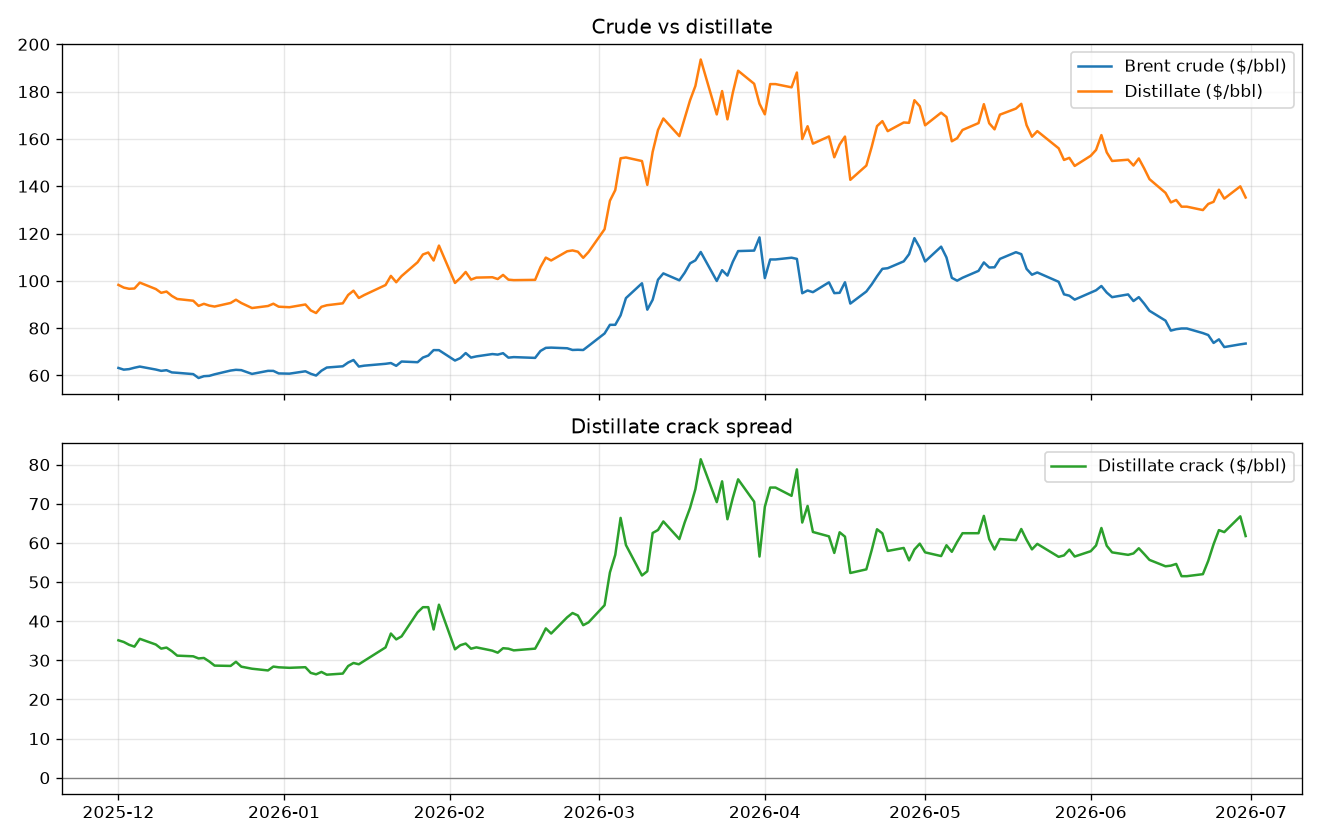
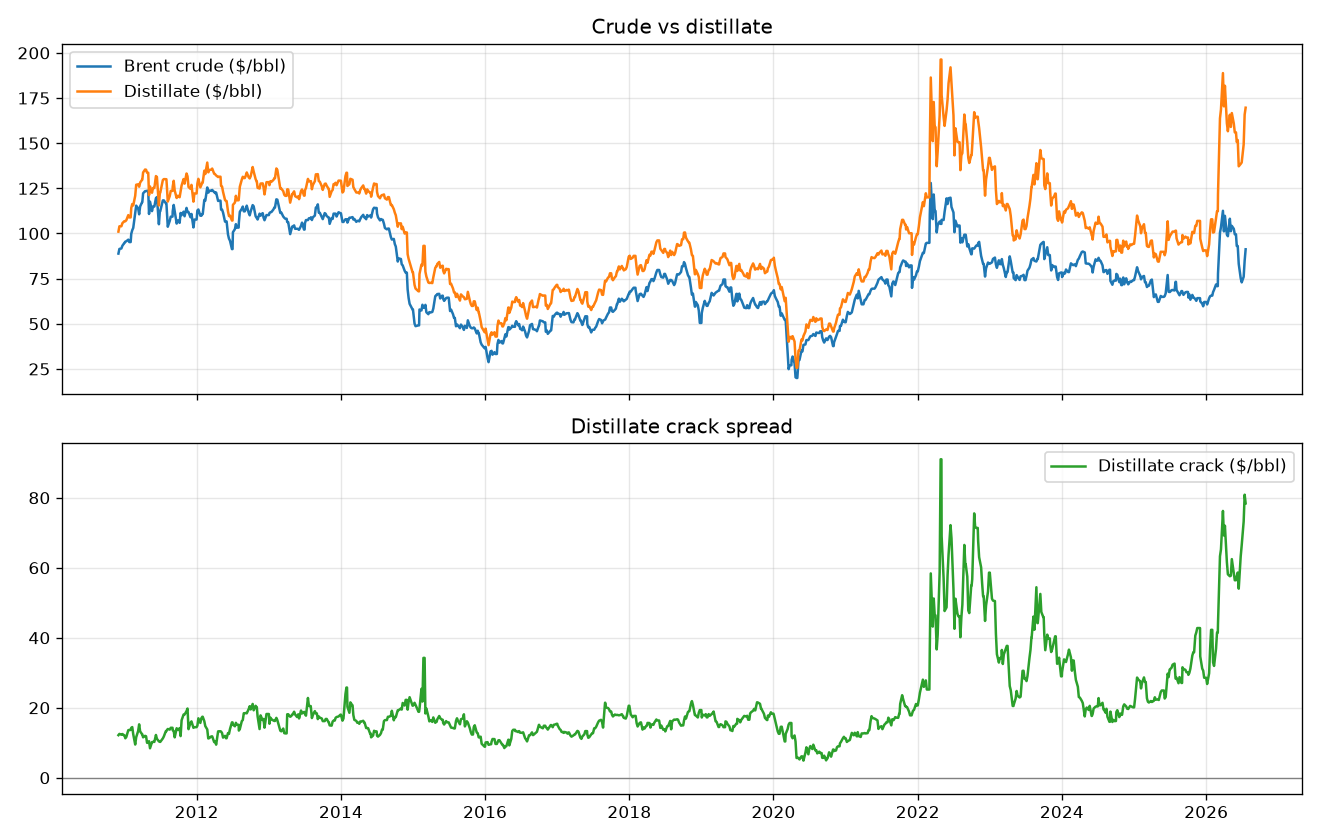
Change of symbol, cleanup and readme

diff --git a/src/ingest.py b/src/ingest.py
@@ -3,12 +3,11 @@
 Run from the repo root:  python -m src.ingest
 """
 from __future__ import annotations
-import time
 
 import pandas as pd
 import yfinance as yf
-from . import eia_data as eia
-from . import config
+import eia_data as eia
+import config
 
 
 def _close_series_yf(raw: pd.DataFrame) -> pd.Series:
@@ -25,19 +24,28 @@ def _close_series(raw: pd.DataFrame) -> pd.Series:
     return close
 
 
-def fetch_prices(tickers: dict[str, str], start: str) -> pd.DataFrame:
-    """Download daily close prices; return one column per instrument."""
-    print(f"Fetching prices from {config.START_DATE} to today...")
+def fetch_prices(tickers: dict[str, tuple[str, str]], start: str) -> pd.DataFrame:
+    """Download daily close prices; return one column per instrument.
+
+    Each ticker entry is a (source, symbol) pair — "yahoo" or "eia" — so a
+    bad or empty response from one source fails loudly instead of silently
+    being retried against the other.
+    """
+    print(f"Fetching prices from {start} to today...")
     frames = {}
-    for name, ticker in tickers.items():
-        raw = yf.download(ticker, start=start, progress=False, interval='5D', auto_adjust=False)
-        if raw.empty:
-            raw = eia.get_distillate_spot_prices(id=ticker, start_date=start, end_date=None, frequency='monthly')
+    for name, (source, ticker) in tickers.items():
+        if source == "yahoo":
+            raw = yf.download(ticker, start=start, progress=False, interval='1D', auto_adjust=False)
             if raw.empty:
-                 raise RuntimeError(f"No data returned for {ticker} ({name}).")
-            frames[name]=_close_series(raw)
-            continue
-        frames[name] = _close_series_yf(raw)
+                raise RuntimeError(f"No data returned for {ticker} ({name}).")
+            frames[name] = _close_series_yf(raw)
+        elif source == "eia":
+            raw = eia.get_distillate_spot_prices(id=ticker, start_date=start, end_date=None, frequency='daily')
+            if raw.empty:
+                raise RuntimeError(f"No data returned for {ticker} ({name}).")
+            frames[name] = _close_series(raw)
+        else:
+            raise ValueError(f"Unknown data source {source!r} for {name}.")
     prices = pd.concat(frames, axis=1)
     prices.columns = list(tickers.keys())
     return prices.dropna(how="all").ffill()

diff --git a/src/dashboard.py b/src/dashboard.py
@@ -17,23 +17,28 @@ st.set_page_config(page_title="DistillateDesk", layout="wide")
 
 
 def diesel_jet_spread_zscore(prices: pd.DataFrame) -> pd.Series:
-    dieselbbl = analytics.gallons_to_barrel(prices["diesel_jet"])
-    jetbbl = analytics.gallons_to_barrel(prices["jet_fuel"])
-    
-    diesel_jet_spread = analytics.diesel_jet_spread(dieselbbl, jetbbl)
-    diesel_jet_zscore = analytics.zscore(diesel_jet_spread)
-    return diesel_jet_zscore
+    diesel_jet = diesel_jet_spread(prices)
+    return analytics.zscore(diesel_jet)
 
-def diesel_jet_spread_spread(prices: pd.DataFrame) -> pd.Series:
-    dieselbbl = analytics.gallons_to_barrel(prices["diesel_jet"])
+def diesel_jet_spread(prices: pd.DataFrame) -> pd.Series:
+    dieselbbl = analytics.gallons_to_barrel(prices["diesel"])
     jetbbl = analytics.gallons_to_barrel(prices["jet_fuel"])
-    
-    diesel_jet_spread = analytics.diesel_jet_spread(dieselbbl, jetbbl)
-    return diesel_jet_spread
+    return analytics.diesel_jet_spread(dieselbbl, jetbbl)
 
 @st.cache_data
 def load_prices() -> pd.DataFrame:
     return pd.read_parquet(config.PRICES_FILE)
+
[email redacted]_data(ttl=3600)
+def load_curve(root: str, months: int) -> pd.DataFrame:
+    return cv.curve_snapshot(root, months)
+
+n_months = st.sidebar.slider(
+    "Curve length (contracts)",
+    min_value=2, max_value=12, value=6,
+)
+
+curve = load_curve("HO", n_months)
 
 
 st.title("Distillate Desk")
@@ -48,9 +53,9 @@ except FileNotFoundError:
 in_bbl = pd.DataFrame({
     "Brent crude": prices["brent"],
     "Heating oil": analytics.gallons_to_barrel(prices["heating_oil"]),
-    "Diesel":      analytics.gallons_to_barrel(prices["diesel_jet"]),
+    "Diesel":      analytics.gallons_to_barrel(prices["diesel"]),
     "Jet fuel":    analytics.gallons_to_barrel(prices["jet_fuel"]),
-    "Diesel-jet spread": diesel_jet_spread_spread(prices),
+    "Diesel-jet spread": diesel_jet_spread(prices),
     "Diesel-jet z-score": diesel_jet_spread_zscore(prices),
 })
 
@@ -79,10 +84,10 @@ st.line_chart(view["Diesel-jet spread"])
 st.subheader("Diesel-jet spread z-score")
 st.line_chart(view["Diesel-jet z-score"])
 
-curve = cv.curve_snapshot("HO", 6)
+
 characteristic = cv.classify_snapshot(curve)
 
-st.subheader(f"Heating oil term structure (next 6 contracts): {characteristic}")
+st.subheader(f"Heating oil term structure (next {n_months} contracts): {characteristic}")
 chart = (
     alt.Chart(curve)
     .mark_line(point=True)

diff --git a/src/plot.py b/src/plot.py
@@ -6,27 +6,20 @@ from __future__ import annotations
 
 import matplotlib.pyplot as plt
 import pandas as pd
-
-from . import analytics, config
-
+import config
+import analytics
 
 def load_prices() -> pd.DataFrame:
     return pd.read_parquet(config.PRICES_FILE)
 
 def diesel_jet_spread_zscore(prices: pd.DataFrame) -> pd.Series:
-    dieselbbl = analytics.gallons_to_barrel(prices["diesel_jet"])
-    jetbbl = analytics.gallons_to_barrel(prices["jet_fuel"])
-    
-    diesel_jet_spread = analytics.diesel_jet_spread(dieselbbl, jetbbl)
-    diesel_jet_zscore = analytics.zscore(diesel_jet_spread)
-    return diesel_jet_zscore
+    diesel_jet = diesel_jet_spread(prices)
+    return analytics.zscore(diesel_jet)
 
-def diesel_jet_spread_spread(prices: pd.DataFrame) -> pd.Series:
-    dieselbbl = analytics.gallons_to_barrel(prices["diesel_jet"])
+def diesel_jet_spread(prices: pd.DataFrame) -> pd.Series:
+    dieselbbl = analytics.gallons_to_barrel(prices["diesel"])
     jetbbl = analytics.gallons_to_barrel(prices["jet_fuel"])
-    
-    diesel_jet_spread = analytics.diesel_jet_spread(dieselbbl, jetbbl)
-    return diesel_jet_spread
+    return analytics.diesel_jet_spread(dieselbbl, jetbbl)
 
 
 def main() -> None:

diff --git a/src/config.py b/src/config.py
@@ -12,13 +12,21 @@ PRICES_FILE = DATA_DIR / "prices.parquet"
 # accessible middle-distillate proxy. Swap in ICE Gasoil / Platts data later.
 CRUDE_TICKER = "BZ=F"        # Brent crude  -> quoted in USD/BARREL
 DISTILLATE_TICKER = "HO=F"   # ULSD         -> quoted in USD/GALLON
-JETFUEL_TICKER = "EER_EPJK_PF4_RGC_DPG"      # Jet fuel     -> quoted in USD/GALLON
-DIESEL_TICKER = "EER_EPD2DXL0_PF4_Y35NY_DPG"   # Diesel       -> quoted in USD/GALLON
+JETFUEL_TICKER = "EER_EPJK_PF4_RGC_DPG"        # Jet fuel, US Gulf Coast   -> USD/GALLON
+DIESEL_TICKER = "EER_EPD2DXL0_PF4_RGC_DPG"     # ULSD diesel, US Gulf Coast -> USD/GALLON
+DIESEL_NYH_TICKER = "EER_EPD2DXL0_PF4_Y35NY_DPG"  # ULSD diesel, NY Harbor -> USD/GALLON
+
+# Diesel and jet are both US Gulf Coast so the diesel-jet spread is a clean
+# product spread; the NY Harbor diesel series is kept so the NYH-USGC
+# *location* spread can be studied separately.
+# Each instrument declares its data source, so ingest dispatches explicitly
+# instead of trying Yahoo first and falling back on an empty response.
 TICKERS = {
-    "brent": CRUDE_TICKER,
-    "heating_oil": DISTILLATE_TICKER,
-    "diesel_jet": DIESEL_TICKER,
-    "jet_fuel": JETFUEL_TICKER
+    "brent":       ("yahoo", CRUDE_TICKER),
+    "heating_oil": ("yahoo", DISTILLATE_TICKER),
+    "diesel":      ("eia", DIESEL_TICKER),
+    "diesel_nyh":  ("eia", DIESEL_NYH_TICKER),
+    "jet_fuel":    ("eia", JETFUEL_TICKER),
 }
 
 

diff --git a/src/eia_data.py b/src/eia_data.py
@@ -1,14 +1,23 @@
 from myeia import API
 import pandas as pd
 
-eia = API()
+_eia: API | None = None
+
+
+def _client() -> API:
+    """Create the EIA client on first use, so importing this module
+    doesn't require the API key to be configured."""
+    global _eia
+    if _eia is None:
+        _eia = API()
+    return _eia
+
 
 def get_diesel_spot_prices(start_date: str, end_date: str, frequency: str) -> pd.DataFrame:
     """Fetch diesel spot prices from EIA API."""
-    
     route = "petroleum/pri/spt"
     id='EER_EPD2DXL0_PF4_Y35NY_DPG'
-    df = eia.get_series_via_route(
+    df = _client().get_series_via_route(
         route=route,
         series=id,
         frequency=frequency,
@@ -24,7 +33,7 @@ def get_jetfuel_spot_prices(start_date: str, end_date: str, frequency: str) -> p
     
     route = "petroleum/pri/spt"
     id = "EER_EPJK_PF4_RGC_DPG"
-    df = eia.get_series_via_route(
+    df = _client().get_series_via_route(
         route=route,
         series=id,
         frequency=frequency,
@@ -37,7 +46,7 @@ def get_jetfuel_spot_prices(start_date: str, end_date: str, frequency: str) -> p
 def get_distillate_spot_prices(id: str, start_date: str, end_date: str, frequency: str) -> pd.DataFrame:
     """Fetch distillate spot prices from EIA API."""
     route = "petroleum/pri/spt"
-    df = eia.get_series_via_route(
+    df = _client().get_series_via_route(
         route=route,
         series=id,
         frequency=frequency,

diff --git a/RESEARCH.md b/RESEARCH.md
@@ -1,0 +1,73 @@
+# Research notes
+
+Dated observations from the data, honest caveats included. Numbers regenerate from
+`data/prices.parquet`; charts referenced here are `diesel_jet_overview.png` and
+`crack_overview.png`.
+
+## Definitions
+
+- **Diesel–jet spread** = USGC ULSD − USGC jet, both converted to $/bbl (×42 from EIA's $/gal).
+  Both legs are US Gulf Coast, so this is a clean *product* spread.
+- **Location spread** = NY Harbor ULSD − USGC ULSD, $/bbl. Isolates the *regional* component.
+- **Distillate crack** = HO front-month ($/bbl) − Brent front-month ($/bbl). A simple 1:1 crack,
+  not a 3-2-1 refinery yield.
+- **Z-score** = 60-trading-day rolling z of the spread (~3 calendar months).
+
+---
+
+## 2026-07-21 — The April–May diesel–jet inversion was deeper than first measured
+
+The USGC diesel–jet spread went negative on **2026-04-10** and bottomed at
+**−11.55 $/bbl on 2026-05-18** (z-score trough −2.46 on 2026-04-16). Jet trading *over*
+diesel by double digits is a rare configuration — normally diesel carries a premium.
+
+My first measurement of this episode used NY Harbor diesel against Gulf Coast jet. That
+cross-regional version only fell to −3.36 $/bbl, because the NYH diesel premium over USGC
+(~4.5 $/bbl average through 2025) was *masking* the depth of the product move. Redefining
+the spread with both legs on the Gulf Coast revealed the inversion was roughly 3× larger
+than the mixed measure suggested.
+
+**Lesson:** always separate product basis from locational basis before interpreting a spread.
+
+- [ ] TODO: find the fundamental driver of the inversion (jet demand spike? diesel imports?)
+      and note it here.
+
+## 2026-07-21 — The diesel location spread is itself a signal
+
+NYH−USGC diesel averaged ~2.5 $/bbl in 2024, ~4.5 $/bbl in 2025, spiked to **10.79 $/bbl
+on 2026-03-12**, and briefly went *negative* in April 2026 — i.e. Gulf Coast barrels
+commanded a premium over New York, which is unusual given the normal south-to-north flow
+(Colonial pipeline economics). The location spread is volatile enough that any "diesel"
+signal built on a single region inherits it silently.
+
+## 2026-07-21 — Distillate crack at the 99.6th percentile; curve backwardated
+
+The HO–Brent crack printed **~78 $/bbl** (2026-07-21), against a full-history median of
+17 $/bbl. It is at the **99.6th percentile** of all history since 2013. Only two years
+have ever printed above 60 $/bbl: 2022 (56 days, post-Ukraine squeeze, peak 108) and 2026
+(55 days so far, 2026 high 85.1 on 2026-07-16). The HO futures curve is simultaneously in
+**backwardation** (front over back — prompt barrels bid), consistent with near-term
+physical tightness rather than a term repricing.
+
+Together the picture reads like a 2022-style distillate squeeze: extreme flat-price crack,
+prompt premium, and a diesel–jet spread that snapped back violently from the May inversion
+to +16.8 $/bbl (z ≈ +0.9) now.
+
+- [ ] TODO: track whether the crack mean-reverts or plateaus (2022 stayed elevated for
+      months — mean reversion assumptions failed there).
+
+---
+
+## Caveats (read before trusting any number above)
+
+1. **EIA publication lag.** The last true EIA print is 2026-07-13; later spread rows are
+   forward-filled, so the newest spread/z values are stale by up to a week. Yahoo legs
+   (Brent, HO) are current.
+2. **Spot assessments are not tradable.** EIA series are daily spot assessments. The
+   tradable expressions are HO/gasoil futures or swaps; realized P&L would differ by basis
+   and roll. Any backtest on these series is a *signal* study, not a P&L study.
+3. **No seasonality adjustment.** Heating oil demand is winter-weighted, jet is
+   summer-weighted; the diesel–jet spread has a seasonal shape that the 60-day z-score
+   only partially absorbs. A seasonal (e.g. same-month historical) benchmark would be cleaner.
+4. **Crack history starts ~2013** — Yahoo's Brent futures history is shorter than the EIA
+   series, so percentile claims cover 2013→today (~3,950 obs).

diff --git a/README.md b/README.md
@@ -14,11 +14,14 @@ I'd swap in **ICE Gasoil** (the European benchmark) or Platts/Argus assessments.
 
 Data are mainly from Yahoo Finance for Heating Oil and general oil prices but they don't carry prices for distillates. These prices come from EIA.
 
-Symbols from EIA:
+Symbols from EIA (diesel and jet are both **US Gulf Coast**, so the diesel–jet spread is a
+clean product spread; NY Harbor diesel is kept separately to study the location spread):
 
-`JETFUEL = "EER_EPJK_PF4_RGC_DPG"`
+`JETFUEL = "EER_EPJK_PF4_RGC_DPG"` — jet fuel, US Gulf Coast
 
-`DIESEL = "EER_EPD2DXL0_PF4_Y35NY_DPG"`
+`DIESEL = "EER_EPD2DXL0_PF4_RGC_DPG"` — ULSD, US Gulf Coast
+
+`DIESEL_NYH = "EER_EPD2DXL0_PF4_Y35NY_DPG"` — ULSD, NY Harbor
 
 ## Roadmap
 
@@ -29,5 +32,11 @@ Symbols from EIA:
 
 ## Observations
 
-- In late April 2026 the diesel-jet spread narrowed a lot and go inverse, collapsing from spreads 0.25 to -0.051 in start May. I also tracked the z score to collapse to a -4
-- As of this run (July 26), the market reading from my function is that heating oil curve based on the future prices is in backwardation, meaning the markets paying a premium for promt barrels over deffered barrels, meaning a near-term tightness.
+Dated research notes live in [RESEARCH.md](RESEARCH.md). Headlines so far:
+
+- The April–May 2026 diesel–jet inversion bottomed at **−11.55 $/bbl** — and was ~3× deeper
+  than my first (cross-regional) measurement showed, a lesson in separating product basis
+  from locational basis.
+- The distillate crack is at the **99.6th percentile** of its history with the HO curve in
+  backwardation — the market is paying a premium for prompt barrels over deferred, a
+  2022-style near-term tightness.